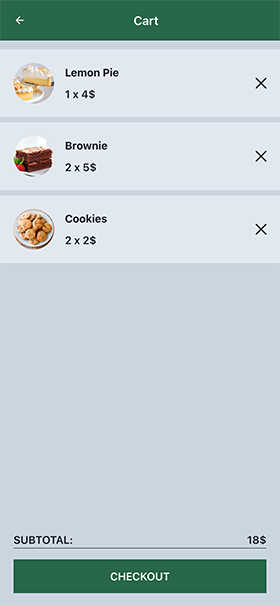
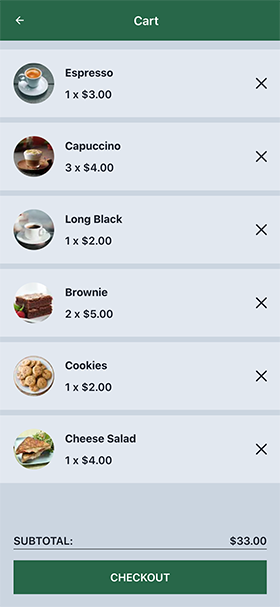
Fix: cart styles

diff --git a/src/components/Cart/CartItem.tsx b/src/components/Cart/CartItem.tsx
@@ -21,6 +21,15 @@ const ProductImage = chakra(NextImage, {
 const CartItem: React.FC<Props> = ({ id, name, picture, price, quantity }) => {
   const dispatch = useDispatch();
   const toast = useToast();
+
+  const formatPrice = (price: number) => {
+    return Intl.NumberFormat("en-US", {
+      style: "currency",
+      currency: "USD",
+      currencyDisplay: "narrowSymbol",
+    }).format(price);
+  };
+
   return (
     <Flex h="100px" w="full" px={5} bg="gray.200" alignItems="center">
       <ProductImage
@@ -34,7 +43,9 @@ const CartItem: React.FC<Props> = ({ id, name, picture, price, quantity }) => {
       />
       <VStack ml={4} alignItems="start">
         <Text fontWeight="bold">{name}</Text>
-        <Text fontWeight="semibold">{`${quantity} x ${price}$`}</Text>
+        <Text fontWeight="semibold">{`${quantity} x ${formatPrice(
+          price
+        )}`}</Text>
       </VStack>
       <Spacer />
       <CloseIcon

diff --git a/src/components/Cart/CheckoutMenu.tsx b/src/components/Cart/CheckoutMenu.tsx
@@ -23,7 +23,13 @@ const CheckoutMenu: React.FC<Props> = ({ show, subtotal = 0, handler }) => {
         <Flex>
           <Text>SUBTOTAL:</Text>
           <Spacer />
-          <Text>{`${subtotal}$`}</Text>
+          <Text>
+            {Intl.NumberFormat("en-US", {
+              style: "currency",
+              currency: "USD",
+              currencyDisplay: "narrowSymbol",
+            }).format(subtotal)}
+          </Text>
         </Flex>
         <Divider borderColor="black" />
         <Center
